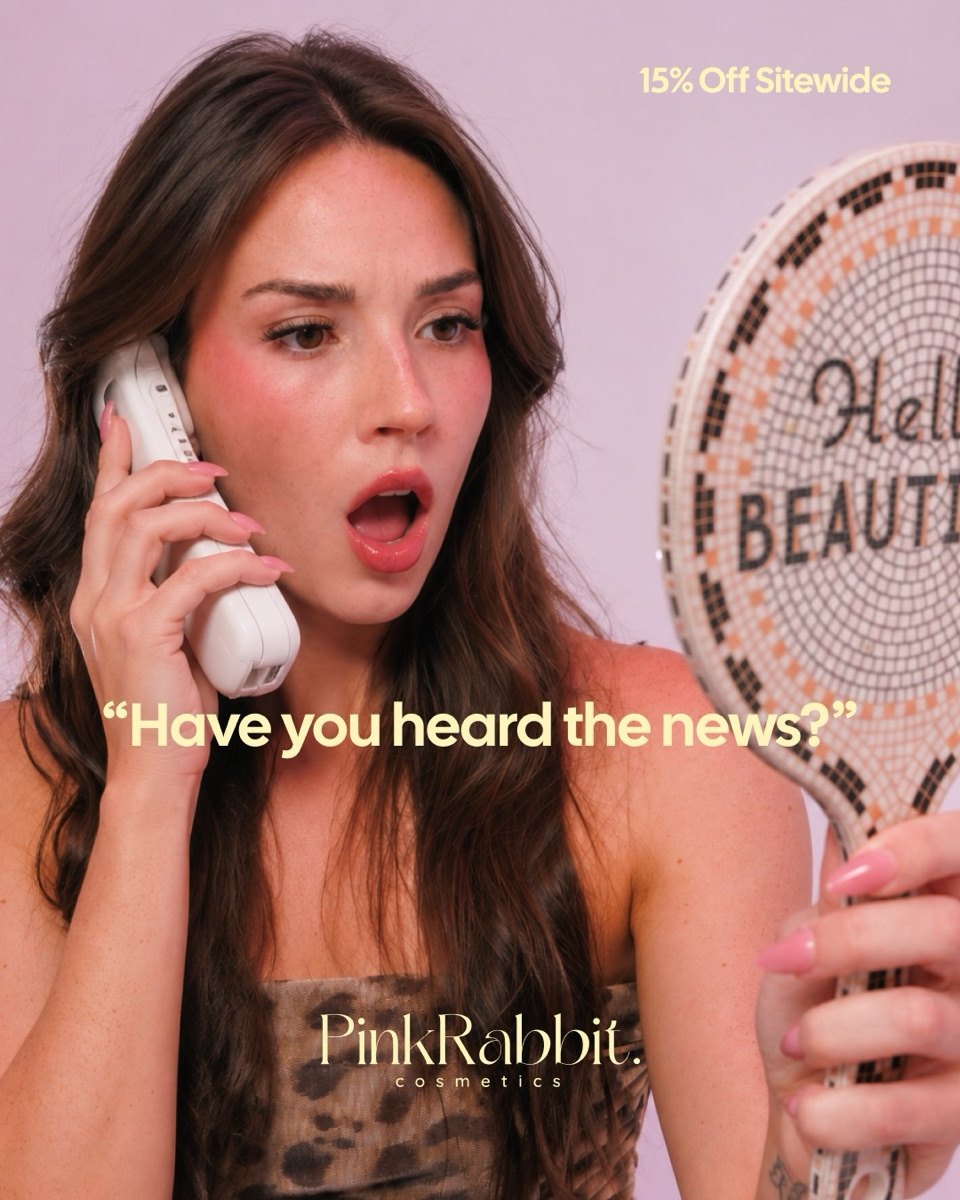
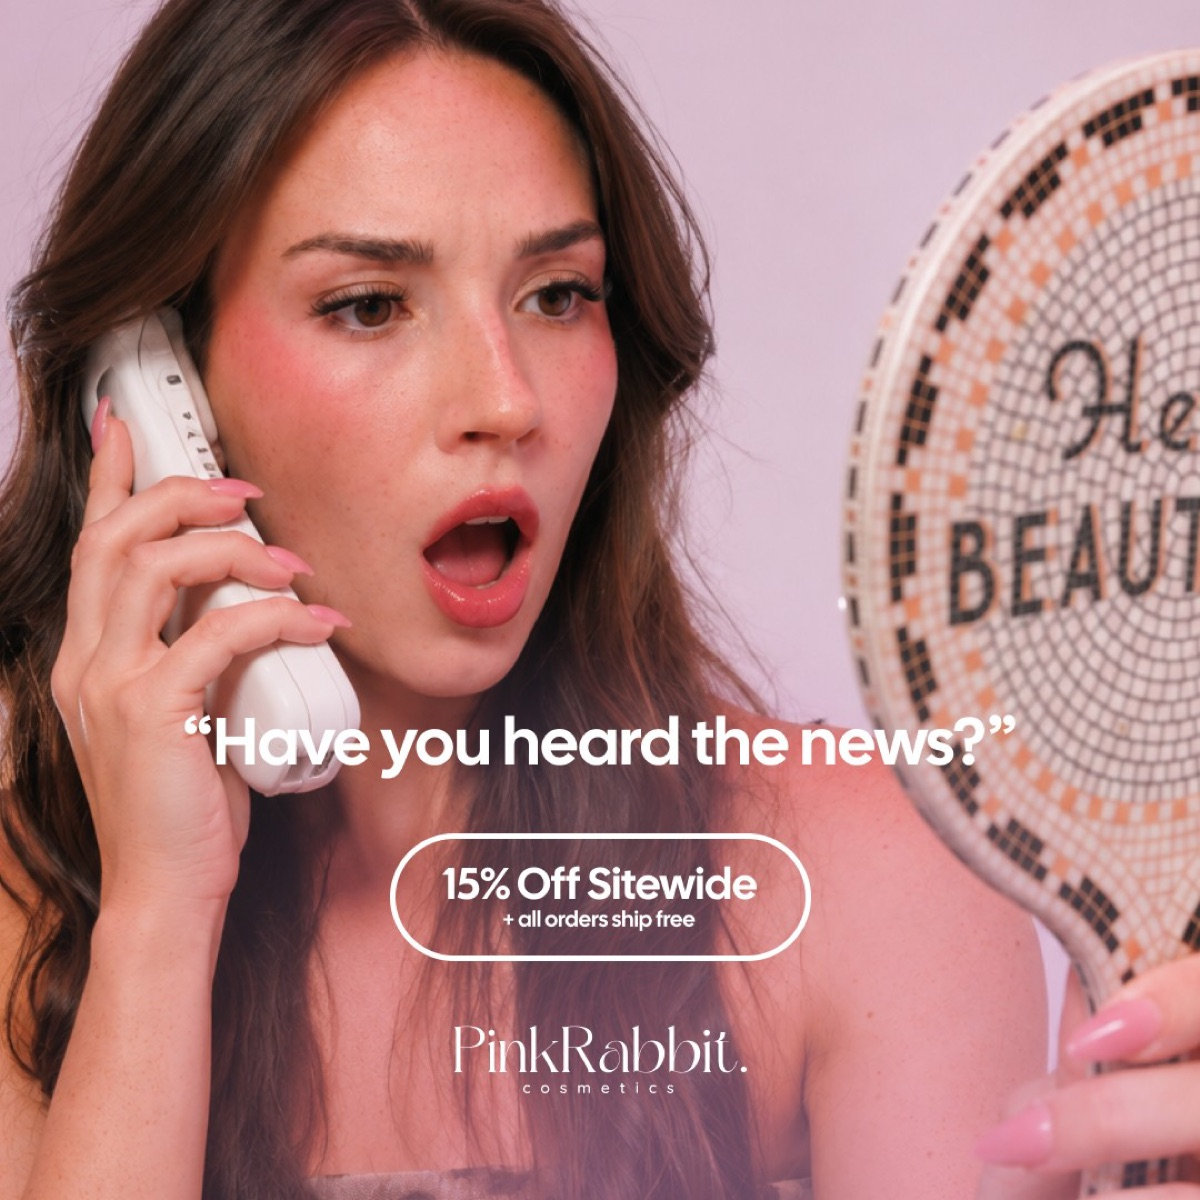
New 15% off artwork; all orders ship free

diff --git a/index.html b/index.html
@@ -551,7 +551,7 @@ td .style-nm{display:flex;align-items:center;gap:10px;font-weight:500}
         <div class="hero-main">
           <p class="eyebrow">Where we are</p>
           <h1>Black Friday <em>is live</em>.</h1>
-          <p>Two ads run from 20 November to midnight on Cyber Monday, 30 November: 15% off sitewide, and any 3 lash styles for $60, both with free shipping and a surprise gift on orders over $50. They are built on what November proved: the <em>Lashes for every version of you</em> carousel brought sales for $46.03 each, the lowest of any campaign so far, while the video cost $152.97 a sale. Perfect Lash finished with 22 sales at $55.82 each, against $103.38 a sale in September.</p>
+          <p>Two ads run from 20 November to midnight on Cyber Monday, 30 November: 15% off sitewide, and any 3 lash styles for $60, with free shipping on every order and a surprise gift on orders over $50. They are built on what November proved: the <em>Lashes for every version of you</em> carousel brought sales for $46.03 each, the lowest of any campaign so far, while the video cost $152.97 a sale. Perfect Lash finished with 22 sales at $55.82 each, against $103.38 a sale in September.</p>
           <div class="hero-phases">
             <span class="phase">15&#8211;30 Sep &#183; Flights complete</span>
             <span class="phase">30 Sep &#8211; 10 Nov &#183; Perfect Lash</span>
@@ -569,7 +569,7 @@ td .style-nm{display:flex;align-items:center;gap:10px;font-weight:500}
           <div class="side-note">
             <p class="eyebrow">Waiting on Pink Rabbit</p>
             <ul>
-              <li><span>A test purchase, to confirm the 15% off, free shipping and gift all work at checkout, and that the bundle page shows the 3-for-$60 offer.</span></li>
+              <li><span>A test purchase, to confirm the 15% off, free shipping on every order and the gift over $50 all work at checkout, and that the bundle page shows the 3-for-$60 offer.</span></li>
               <li><span>Your last shipping date for Christmas delivery, for the December ads.</span></li>
               <li><span>Your current abandoned-cart and order emails, for us to review.</span></li>
               <li><span>Dates for the January shoot.</span></li>
@@ -824,7 +824,7 @@ td .style-nm{display:flex;align-items:center;gap:10px;font-weight:500}
           <div class="road-row"><div class="when">4&#8211;18 Nov</div><div class="ph">Video test <span class="pill hold">Done</span></div><div class="what">2 sales at $152.97 each. Video does not earn a place at this budget yet.</div></div>
           <div class="road-row"><div class="when">10&#8211;18 Nov</div><div class="ph">Lashes for every version of you <span class="pill hold">Done</span></div><div class="what">3 sales at $46.03 each, the lowest cost per sale so far. The idea carries into Black Friday.</div></div>
           <div class="road-row"><div class="when">Production shoot</div><div class="ph">From imagery to how-to video <span class="pill prep">Planned</span></div><div class="what">Educational content that focuses on the application: mapping the eye, applying step by step, and putting the full look together. It answers the part people worry about before they buy.</div></div>
-          <div class="road-row"><div class="when">20&#8211;30 Nov</div><div class="ph">Black Friday &#8594; Cyber Monday <span class="pill live">Live</span></div><div class="what">15% off sitewide and any 3 lash styles for $60, both with free shipping and a surprise gift on orders over $50. Two carousel ads, one for each offer, built on what November proved. On Cyber Monday the copy on both switches to last-day messaging, and it ends at midnight on 30 November. Ad costs rise for every brand that week, so a temporary bump in cost per purchase is expected.</div></div>
+          <div class="road-row"><div class="when">20&#8211;30 Nov</div><div class="ph">Black Friday &#8594; Cyber Monday <span class="pill live">Live</span></div><div class="what">15% off sitewide and any 3 lash styles for $60, with free shipping on every order and a surprise gift on orders over $50. Two carousel ads, one for each offer, built on what November proved. On Cyber Monday the copy on both switches to last-day messaging, and it ends at midnight on 30 November. Ad costs rise for every brand that week, so a temporary bump in cost per purchase is expected.</div></div>
           <div class="road-row"><div class="when">December</div><div class="ph">The Holiday Edit <span class="pill prep">Planned</span></div><div class="what">The look moves from Black Friday pink to a luxe holiday treatment across the ads, website header and pop-up: gifting first, then the last shipping days, then the new year.</div></div>
           <div class="road-row ms"><div class="when">End of Nov</div><div class="ph"><i></i>90-day review</div><div class="what">Who bought, which creative sold, what each sale cost, and the plan for December.</div></div>
         </div>
@@ -1007,20 +1007,20 @@ const CAMPAIGNS = [
     objective:'Website Sales',
     funnel:'TOF \u2192 BOF (Offer-led lifestyle carousel)',
     conversion:'Purchase',
-    message:'15% off sitewide \u00b7 free shipping and a surprise gift on orders over $50',
+    message:'15% off sitewide \u00b7 all orders ship free \u00b7 a surprise gift on orders over $50',
     creativeFmt:'Carousel \u00b7 3 cards \u00b7 feed and Stories sizes \u00b7 Shop Now',
     destination:'Pink Rabbit Lash Collection \u00b7 Shop Now',
     flight:'11 days \u00b7 20 \u2013 30 Nov \u00b7 ends midnight on Cyber Monday',
     launch:'Fri 20 Nov',
-    primary:'Have you heard the news? \ud83d\udc97 Your favorite Pink Rabbit lashes are 15% off sitewide, plus free shipping and a surprise gift when you spend over $50. Handmade lashes. Effortless application. Black Friday deals, all week long, through Cyber Monday.',
-    cards:[['Have you heard the news?','15% off sitewide'],['15% off every lash','Black Friday, all week long'],['Free shipping + a gift','On orders over $50']],
+    primary:'Have you heard the news? \ud83d\udc97 Your favorite Pink Rabbit lashes are 15% off sitewide, and all orders ship free. Spend over $50 and get a surprise gift too. Handmade lashes. Effortless application. Black Friday deals, all week long, through Cyber Monday.',
+    cards:[['Have you heard the news?','15% off sitewide'],['15% off every lash','Black Friday, all week long'],['All orders ship free','Plus a gift over $50']],
     testing:'Whether a sitewide discount brings in sales at a lower cost than November\u2019s full-price ads, running side by side with the 3-for-$60 bundle so we can see which offer sells. On Cyber Monday the copy switches to last-day messaging. We check results daily.',
-    creative:['creative/web/bf-a-01.jpg','creative/web/bf-a-02.jpg','creative/web/bf-a-03.jpg'] },
+    creative:['creative/web/bf-a-01.jpg?v=2','creative/web/bf-a-02.jpg?v=2','creative/web/bf-a-03.jpg?v=2'] },
   { name:'Black Friday \u00b7 3 Lash Styles for $60', base:'Campaign 07', platform:'Meta', status:'live', liveSince:'2026-11-20',
     objective:'Website Sales',
     funnel:'TOF \u2192 BOF (Offer-led lifestyle carousel)',
     conversion:'Purchase',
-    message:'Any 3 lash styles for $60 \u00b7 free shipping and a surprise gift included',
+    message:'Any 3 lash styles for $60 \u00b7 all orders ship free \u00b7 surprise gift included',
     creativeFmt:'Carousel \u00b7 3 cards \u00b7 feed and Stories sizes \u00b7 Shop Now',
     destination:'The 3-for-$60 bundle page \u00b7 Shop Now',
     flight:'11 days \u00b7 20 \u2013 30 Nov \u00b7 ends midnight on Cyber Monday',
@@ -1082,9 +1082,12 @@ const CREATIVE = [
   {c:'Every Version', f:'creative/web/ev-03.jpg', r:'1:1', live:false},
   {c:'Every Version', f:'creative/web/ev-04.jpg', r:'1:1', live:false},
   {c:'Every Version', f:'creative/web/ev-05.jpg', r:'1:1', live:false},
-  {c:'Black Friday \u00b7 15% off', f:'creative/web/bf-a-01.jpg', r:'1:1', live:true},
-  {c:'Black Friday \u00b7 15% off', f:'creative/web/bf-a-02.jpg', r:'4:5', live:true},
-  {c:'Black Friday \u00b7 15% off', f:'creative/web/bf-a-03.jpg', r:'9:16', live:true},
+  {c:'Black Friday \u00b7 15% off', f:'creative/web/bf-a-01.jpg?v=2', r:'1:1', live:true},
+  {c:'Black Friday \u00b7 15% off', f:'creative/web/bf-a-02.jpg?v=2', r:'1:1', live:true},
+  {c:'Black Friday \u00b7 15% off', f:'creative/web/bf-a-03.jpg?v=2', r:'1:1', live:true},
+  {c:'Black Friday \u00b7 15% off', f:'creative/web/bf-a-04.jpg?v=2', r:'9:16', live:true},
+  {c:'Black Friday \u00b7 15% off', f:'creative/web/bf-a-05.jpg?v=2', r:'9:16', live:true},
+  {c:'Black Friday \u00b7 15% off', f:'creative/web/bf-a-06.jpg?v=2', r:'9:16', live:true},
   {c:'Black Friday \u00b7 3 for $60', f:'creative/web/bf-b-01.jpg', r:'1:1', live:true},
   {c:'Black Friday \u00b7 3 for $60', f:'creative/web/bf-b-02.jpg', r:'1:1', live:true},
   {c:'Black Friday \u00b7 3 for $60', f:'creative/web/bf-b-03.jpg', r:'1:1', live:true},
@@ -1412,7 +1415,7 @@ const LANES = [
       items:['Campaign 03 ran to 10 November','Video test 4\u201318 November','Lashes for every version of you carousel 10\u201318 November'],
       dots:[{d:'2026-11-05', t:'October report + strategy call', w:'Brooke &amp; Abby'}]},
     {n:'Holiday / BFCM push', s:'2026-11-15', e:'2026-11-30', tone:'sugar',
-      items:['Black Friday \u2192 Cyber Monday, 20\u201330 November','15% off sitewide \u00b7 any 3 lash styles for $60','Free shipping + a surprise gift on orders over $50']},
+      items:['Black Friday \u2192 Cyber Monday, 20\u201330 November','15% off sitewide \u00b7 any 3 lash styles for $60','All orders ship free \u00b7 a surprise gift on orders over $50']},
     {n:'90-day review', s:'2026-11-23', e:'2026-11-30', when:'End of November', tone:'sugar',
       items:['Full performance analysis','Channel comparison','CPA + ROAS','Winning creative, products + audiences'],
       dots:[{d:'2026-11-30', label:'End of November', t:'90-day review delivered', w:'Brooke &amp; Abby'}]}
@@ -1440,7 +1443,7 @@ const ROADMAP = [
   {when:'Oct 1\u201315', phase:'Creative Round 2', what:['Use September data to develop new creative','Product-specific variations','Lifestyle iterations','Retargeting creative']},
   {when:'Oct 15\u201331', phase:'Optimize + Scale', what:['Meta optimization','Retarget site visitors','Scale winning creative','Continue testing products/messages']},
   {when:'Nov 1\u201318', phase:'Meta Growth', what:['Campaign 03 ran to 10 November','Video test 4\u201318 November','Lashes for every version of you carousel 10\u201318 November']},
-  {when:'Nov 20\u201330', phase:'Black Friday \u2192 Cyber Monday', what:['15% off sitewide','Any 3 lash styles for $60','Free shipping + a surprise gift on orders over $50','Ends midnight on Cyber Monday']},
+  {when:'Nov 20\u201330', phase:'Black Friday \u2192 Cyber Monday', what:['15% off sitewide','Any 3 lash styles for $60','All orders ship free \u00b7 a surprise gift on orders over $50','Ends midnight on Cyber Monday']},
   {when:'End of Nov', phase:'90-Day Review', ms:true, what:['Full performance analysis','Channel comparison','CPA/ROAS','Winning creative/products/audiences','December recommendations']}
 ];
 
@@ -1562,7 +1565,7 @@ $('#perfHint').textContent = METRICS.window;
    Newest first. Add an entry each time there is something worth recording. */
 const LOG = [
   {d:'20 Nov', by:'Brooke', t:'Black Friday is live: two ads, one for each offer',
-   b:'Both Black Friday ads went live on 20 November and run to midnight on Cyber Monday, 30 November. The first is a carousel for 15% off sitewide. It opens on \u201cHave you heard the news?\u201d and links to the lash collection. The second is a carousel for any 3 lash styles for $60, showing the looks side by side (Lift, Lengthen, Define and Flirty, Bold, Dramatic), and links straight to the bundle page. Both come with free shipping and a surprise gift on orders over $50. They run in Facebook and Instagram feeds, Stories and Reels, with artwork sized for each. Each offer has its own campaign so we can see which one sells. On Cyber Monday the copy on both switches to last-day messaging. We check results daily, and the first numbers land here once Meta has a few days of data. The artwork is on the Campaigns page.'},
+   b:'Both Black Friday ads went live on 20 November and run to midnight on Cyber Monday, 30 November. The first is a carousel for 15% off sitewide. It opens on \u201cHave you heard the news?\u201d and links to the lash collection. The second is a carousel for any 3 lash styles for $60, showing the looks side by side (Lift, Lengthen, Define and Flirty, Bold, Dramatic), and links straight to the bundle page. All orders ship free, and every order over $50 gets a surprise gift. They run in Facebook and Instagram feeds, Stories and Reels, with artwork sized for each. Each offer has its own campaign so we can see which one sells. On Cyber Monday the copy on both switches to last-day messaging. We check results daily, and the first numbers land here once Meta has a few days of data. The artwork is on the Campaigns page.'},
   {d:'18 Nov', by:'Brooke', t:'The November tests are in, and what they taught us',
    b:'Both tests finished on 18 November. The carousel, Lashes for every version of you, brought 3 sales at $46.03 each from $138.09 in eight days \u2014 the lowest cost per sale of any campaign so far, ahead of Perfect Lash\u2019s $55.82. The video, The Lash That Changed Her Mind, brought 2 sales at $152.97 each from $305.94. Four takeaways. First, static and lifestyle images beat video again, as they did in September, so Black Friday runs on static ads. Second, showing the range as looks people recognise themselves in works better than one product on its own. Third, ads wear out: Perfect Lash sold well for about six weeks, so fresh creative every four to six weeks keeps costs down. Fourth, the interest is there: Meta counted 63 adds to cart from the carousel against 3 purchases. Some of those carts are counted from people who saw the ad without clicking, but many shoppers still leave before checking out, which abandoned-cart emails and a quick checkout are the usual fix for. Perfect Lash also picked up a late sale and finishes at 22 purchases at $55.82 each. Black Friday comes next and runs to midnight on Cyber Monday.'},
   {d:'10 Nov', by:'Brooke', t:'Perfect Lash is off, the video has its first sale, and a carousel goes live on the 15th',
